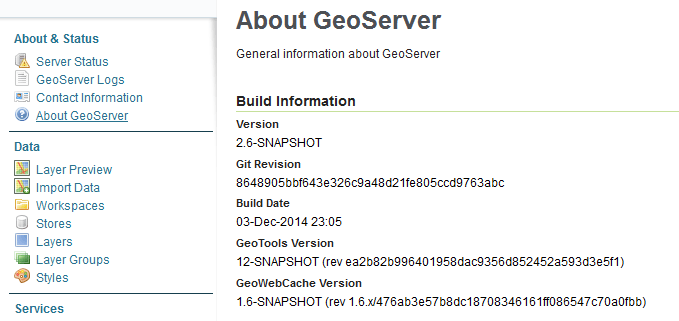
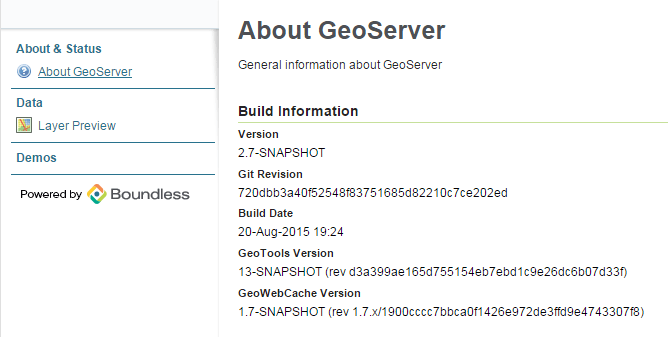
Updating WPS Java tutorial

diff --git a/docs/usermanual/source/processing/wpsjava/index.rst b/docs/usermanual/source/processing/wpsjava/index.rst
@@ -61,21 +61,29 @@ Since a custom WPS process is packaged as a regular JAR file the standard archet
       <dependency>
         <groupId>org.geotools</groupId>
         <artifactId>gt-process</artifactId>
-        <version>12-SNAPSHOT</version>
+        <version>${geotools.version}</version>
       </dependency>
       <dependency>
         <groupId>org.geotools</groupId>
-        <artifactId>gt-geometry</artifactId>
-        <version>12-SNAPSHOT</version>
+        <artifactId>gt-process-geometry</artifactId>
+        <version>${geotools.version}</version>
       </dependency>
 
-   .. note:: Please ensure that the GeoTools version matches the one used by OpenGeo Suite being deployed into. You can check the version of GeoTools by navigating to the :guilabel:`About GeoServer` section of the GeoServer admin interface.
+
+#. In addition, add the following lines inside the ``<properties>`` block (typically beneath the line for ``<project.build.sourceEncoding>``, replacing ``GEOSERVER_VERSION`` and ``GEOTOOLS_VERSION`` with the versions used by OpenGeo Suite:
+
+   .. code-block:: xml
+
+      <geoserver.version>GEOSERVER_VERSION</geoserver.version>
+      <geotools.version>GEOTOOLS_VERSION</geotools.version>
+
+   .. warning:: You must make sure that the GeoServer and GeoTools versions match the ones used by OpenGeo Suite. You can check the versions by navigating to the :guilabel:`About GeoServer` section of the GeoServer admin interface. The GeoServer version will be shown under :guilabel:`Version`, and the GeoTool version will be shown under :guilabel:`GeoTools Version`.
 
       .. figure:: img/gt-version.png
 
-         GeoServer showing GeoTools version
+         GeoServer showing version numbers (yours will likely be different)
 
-#. In the same file, add a reference to the OpenGeo Maven repository. This will provide access to the required libraries.
+#. In the same file anywhere inside the ``<project>`` block, add a reference to the Boundless Maven repository. This will provide access to the required libraries.
 
    .. code-block:: xml
 
@@ -87,53 +95,54 @@ Since a custom WPS process is packaged as a regular JAR file the standard archet
         </repository>
       </repositories>
 
-#. The final file should look like this:
+#. The final file should look similar like this (but with different version numbers, as indicated above):
 
    .. code-block:: xml
 
       <project xmlns="http://maven.apache.org/POM/4.0.0" xmlns:xsi="http://www.w3.org/2001/XMLSchema-instance"
-       xsi:schemaLocation="http://maven.apache.org/POM/4.0.0 http://maven.apache.org/xsd/maven-4.0.0.xsd">
-       <modelVersion>4.0.0</modelVersion>
+        xsi:schemaLocation="http://maven.apache.org/POM/4.0.0 http://maven.apache.org/xsd/maven-4.0.0.xsd">
+        <modelVersion>4.0.0</modelVersion>
 
-       <groupId>org.example.wps</groupId>
-       <artifactId>wps-demo</artifactId>
-       <version>1.0-SNAPSHOT</version>
-       <packaging>jar</packaging>
+        <groupId>org.example.wps</groupId>
+        <artifactId>wps-demo</artifactId>
+        <version>1.0</version>
+        <packaging>jar</packaging>
 
-       <name>wps-demo</name>
-       <url>http://maven.apache.org</url>
+        <name>wps-demo</name>
+        <url>http://maven.apache.org</url>
 
-       <properties>
-         <project.build.sourceEncoding>UTF-8</project.build.sourceEncoding>
-       </properties>
+        <properties>
+          <project.build.sourceEncoding>UTF-8</project.build.sourceEncoding>
+          <geoserver.version>2.8-SNAPSHOT</geoserver.version>
+          <geotools.version>14-SNAPSHOT</geotools.version>
+        </properties>
 
-       <dependencies>
-         <dependency>
-           <groupId>org.geotools</groupId>
-           <artifactId>gt-process</artifactId>
-           <version>12-SNAPSHOT</version>
-         </dependency>
-         <dependency>
-           <groupId>org.geotools</groupId>
-           <artifactId>gt-geometry</artifactId>
-           <version>12-SNAPSHOT</version>
-         </dependency>
-         <dependency>
-           <groupId>junit</groupId>
-           <artifactId>junit</artifactId>
-           <version>3.8.1</version>
-           <scope>test</scope>
-         </dependency>
-       </dependencies>
-  
-       <repositories>
-         <repository>
-           <id>boundless</id>
-           <name>Boundless Maven Repository</name>
-           <url>http://repo.boundlessgeo.com/main</url>
-         </repository>
-       </repositories>
-  
+        <repositories>
+          <repository>
+            <id>boundless</id>
+            <name>Boundless Maven Repository</name>
+            <url>http://repo.boundlessgeo.com/main</url>
+          </repository>
+        </repositories>
+
+        <dependencies>
+          <dependency>
+            <groupId>junit</groupId>
+            <artifactId>junit</artifactId>
+            <version>3.8.1</version>
+            <scope>test</scope>
+          </dependency>
+          <dependency>
+            <groupId>org.geotools</groupId>
+            <artifactId>gt-process</artifactId>
+            <version>${geotools.version}</version>
+          </dependency>
+          <dependency>
+            <groupId>org.geotools</groupId>
+            <artifactId>gt-process-geometry</artifactId>
+            <version>${geotools.version}</version>
+          </dependency>
+        </dependencies>
       </project>
 
 #. Save and close this file.
@@ -306,11 +315,7 @@ The previous steps created a Java package ``org.example.wps`` in which to implem
 Configure GeoServer
 -------------------
 
-.. todo:: Is the title and/or description of this section correct?
-
-GeoServer uses the `Dependency Injection <http://en.wikipedia.org/wiki/Dependency_injection>`_ mechanism of the `Spring Framework <http://www.springsource.org/spring-framework/>`_ to allow instantiating components only when they are used. 
-
-The final file to be created will register the process so that it will be known to GeoServer:
+GeoTools/GeoServer uses the `Java Service Provider Interface <https://docs.oracle.com/javase/tutorial/sound/SPI-intro.html>`_ (or SPI) for plugins. We will now create the required directory and file structure for our process.
 
 #. Create the :file:`wps-demo/src/main/resources/META-INF/services` directory structure.
 
@@ -397,5 +402,4 @@ Once GeoServer is running, you can verify that the new process was deployed succ
 
    which shows the single rectangle being split into two.
 
-   .. todo:: A diagram of this would be nice.
-
+.. todo:: Utilize WPS builder.
